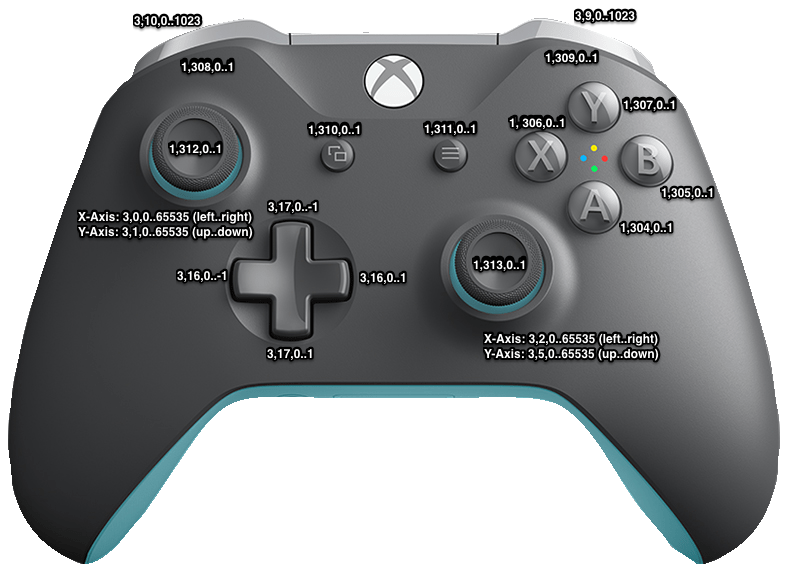
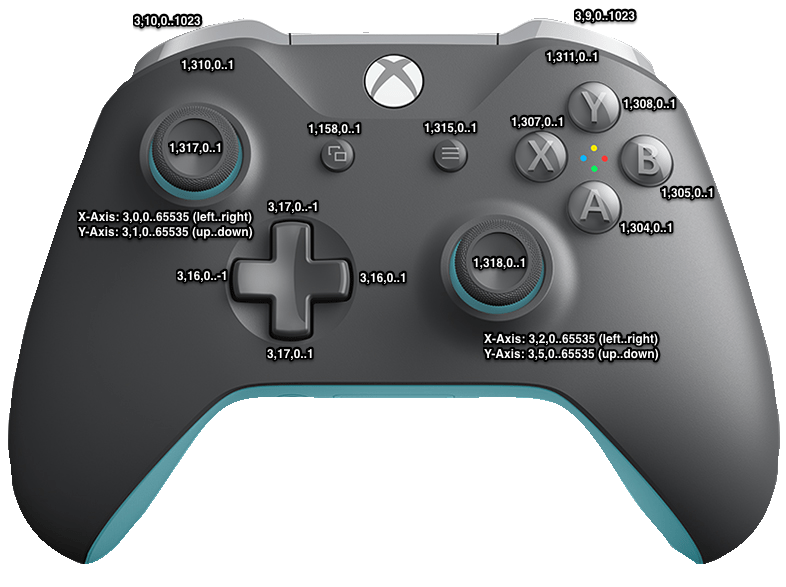
restored key mapping

diff --git a/xbox-info/xbox-info.py b/xbox-info/xbox-info.py
@@ -32,21 +32,21 @@ while event:
                 button = "A"
             elif code == 305:
                 button = "B"
-            elif code == 306:
-                button = "X"
             elif code == 307:
-                button = "Y"
+                button = "X"
             elif code == 308:
-                button = "LB"
-            elif code == 309:
-                button = "RB"
+                button = "Y"
             elif code == 310:
-                button = "BACK"
+                button = "LB"
             elif code == 311:
+                button = "RB"
+            elif code == 158:
+                button = "BACK"
+            elif code == 315:
                 button = "MENU"
-            elif code == 312:
+            elif code == 317:
                 button = "LEFT STICK"
-            elif code == 313:
+            elif code == 318:
                 button = "RIGHT STICK"
 
         elif ev_type == 3:
